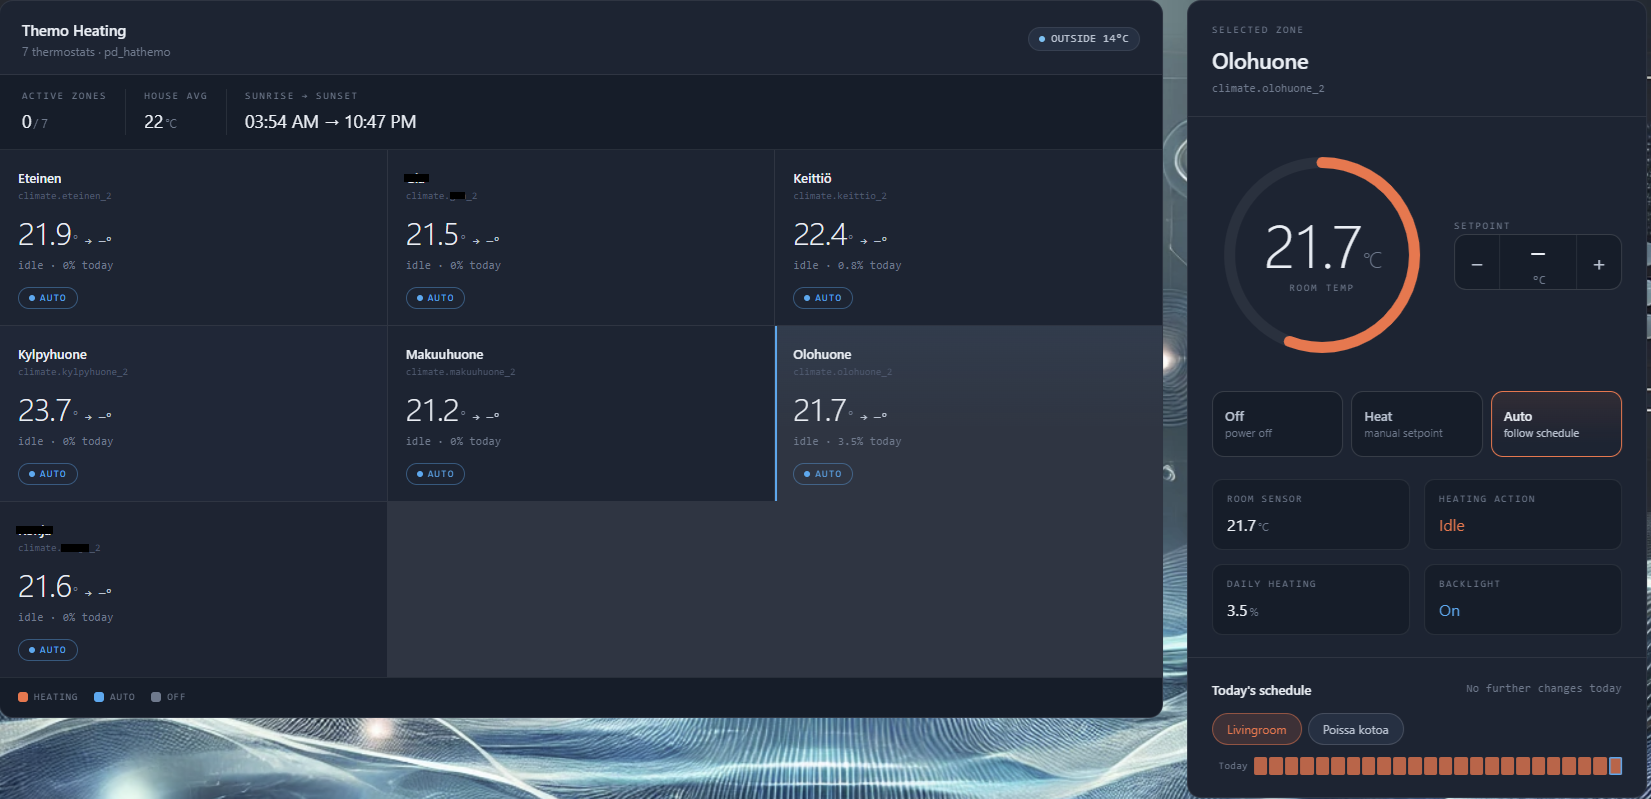
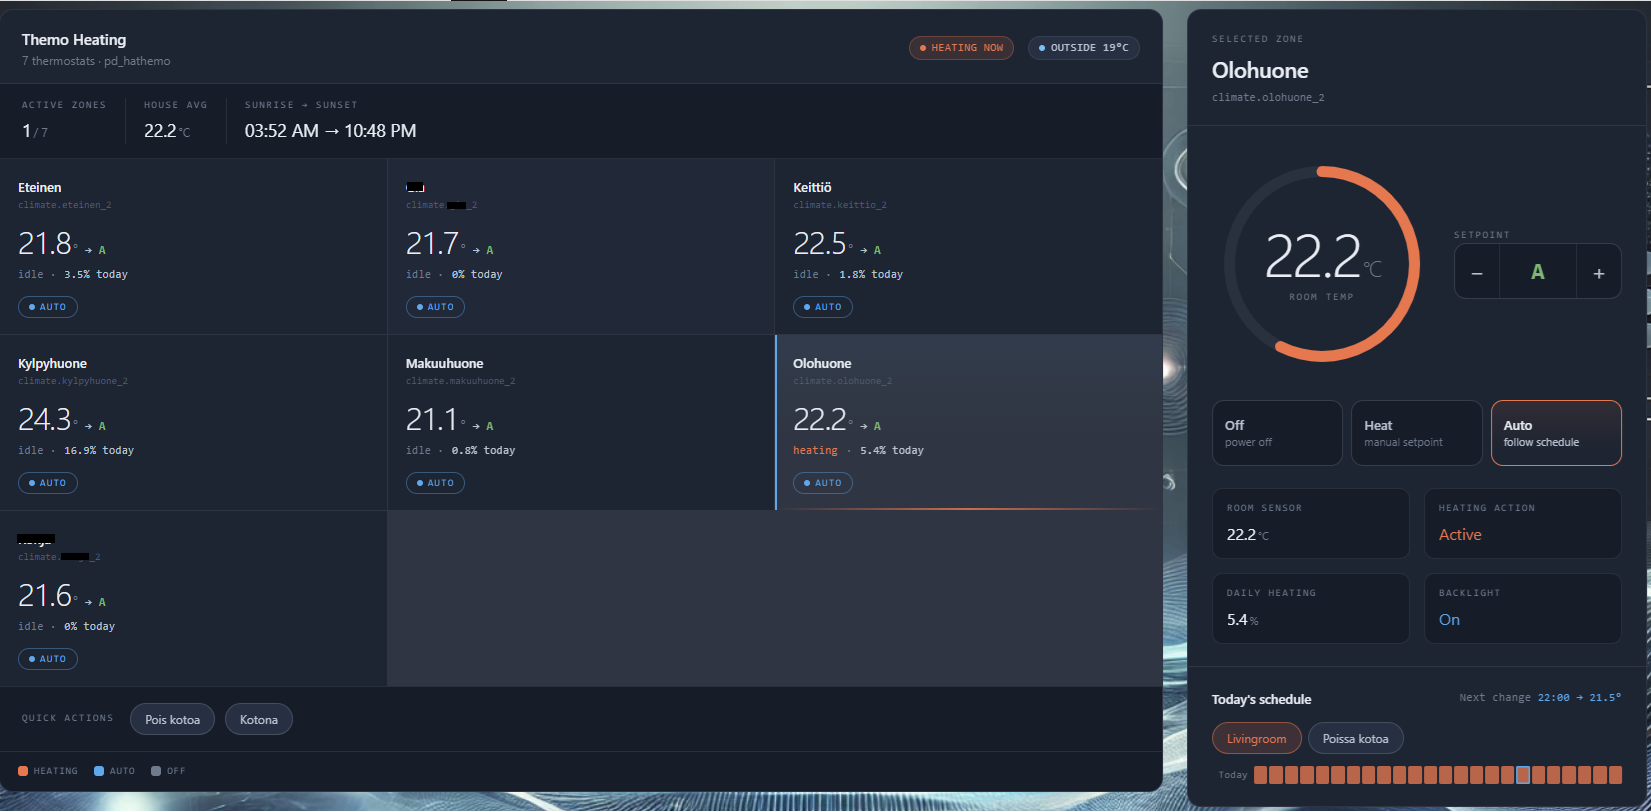
docs: refresh desktop preview to match v0.3.1 visuals

diff --git a/README.md b/README.md
@@ -10,7 +10,7 @@ right for the selected zone — current temperature ring, setpoint stepper, Off 
 Auto mode, the device's heating schedule (heatmap + preset switch), room/floor sensors,
 daily heating %, and the backlight toggle.
 
-<img src="docs/preview.png?v=2" alt="PapaDog's Themo Control Card — desktop layout">
+<img src="docs/preview.png?v=3" alt="PapaDog's Themo Control Card — desktop layout">
 
 <p>
   <img src="docs/preview-mobile.png?v=1" width="280" alt="PapaDog's Themo Control Card — mobile layout">